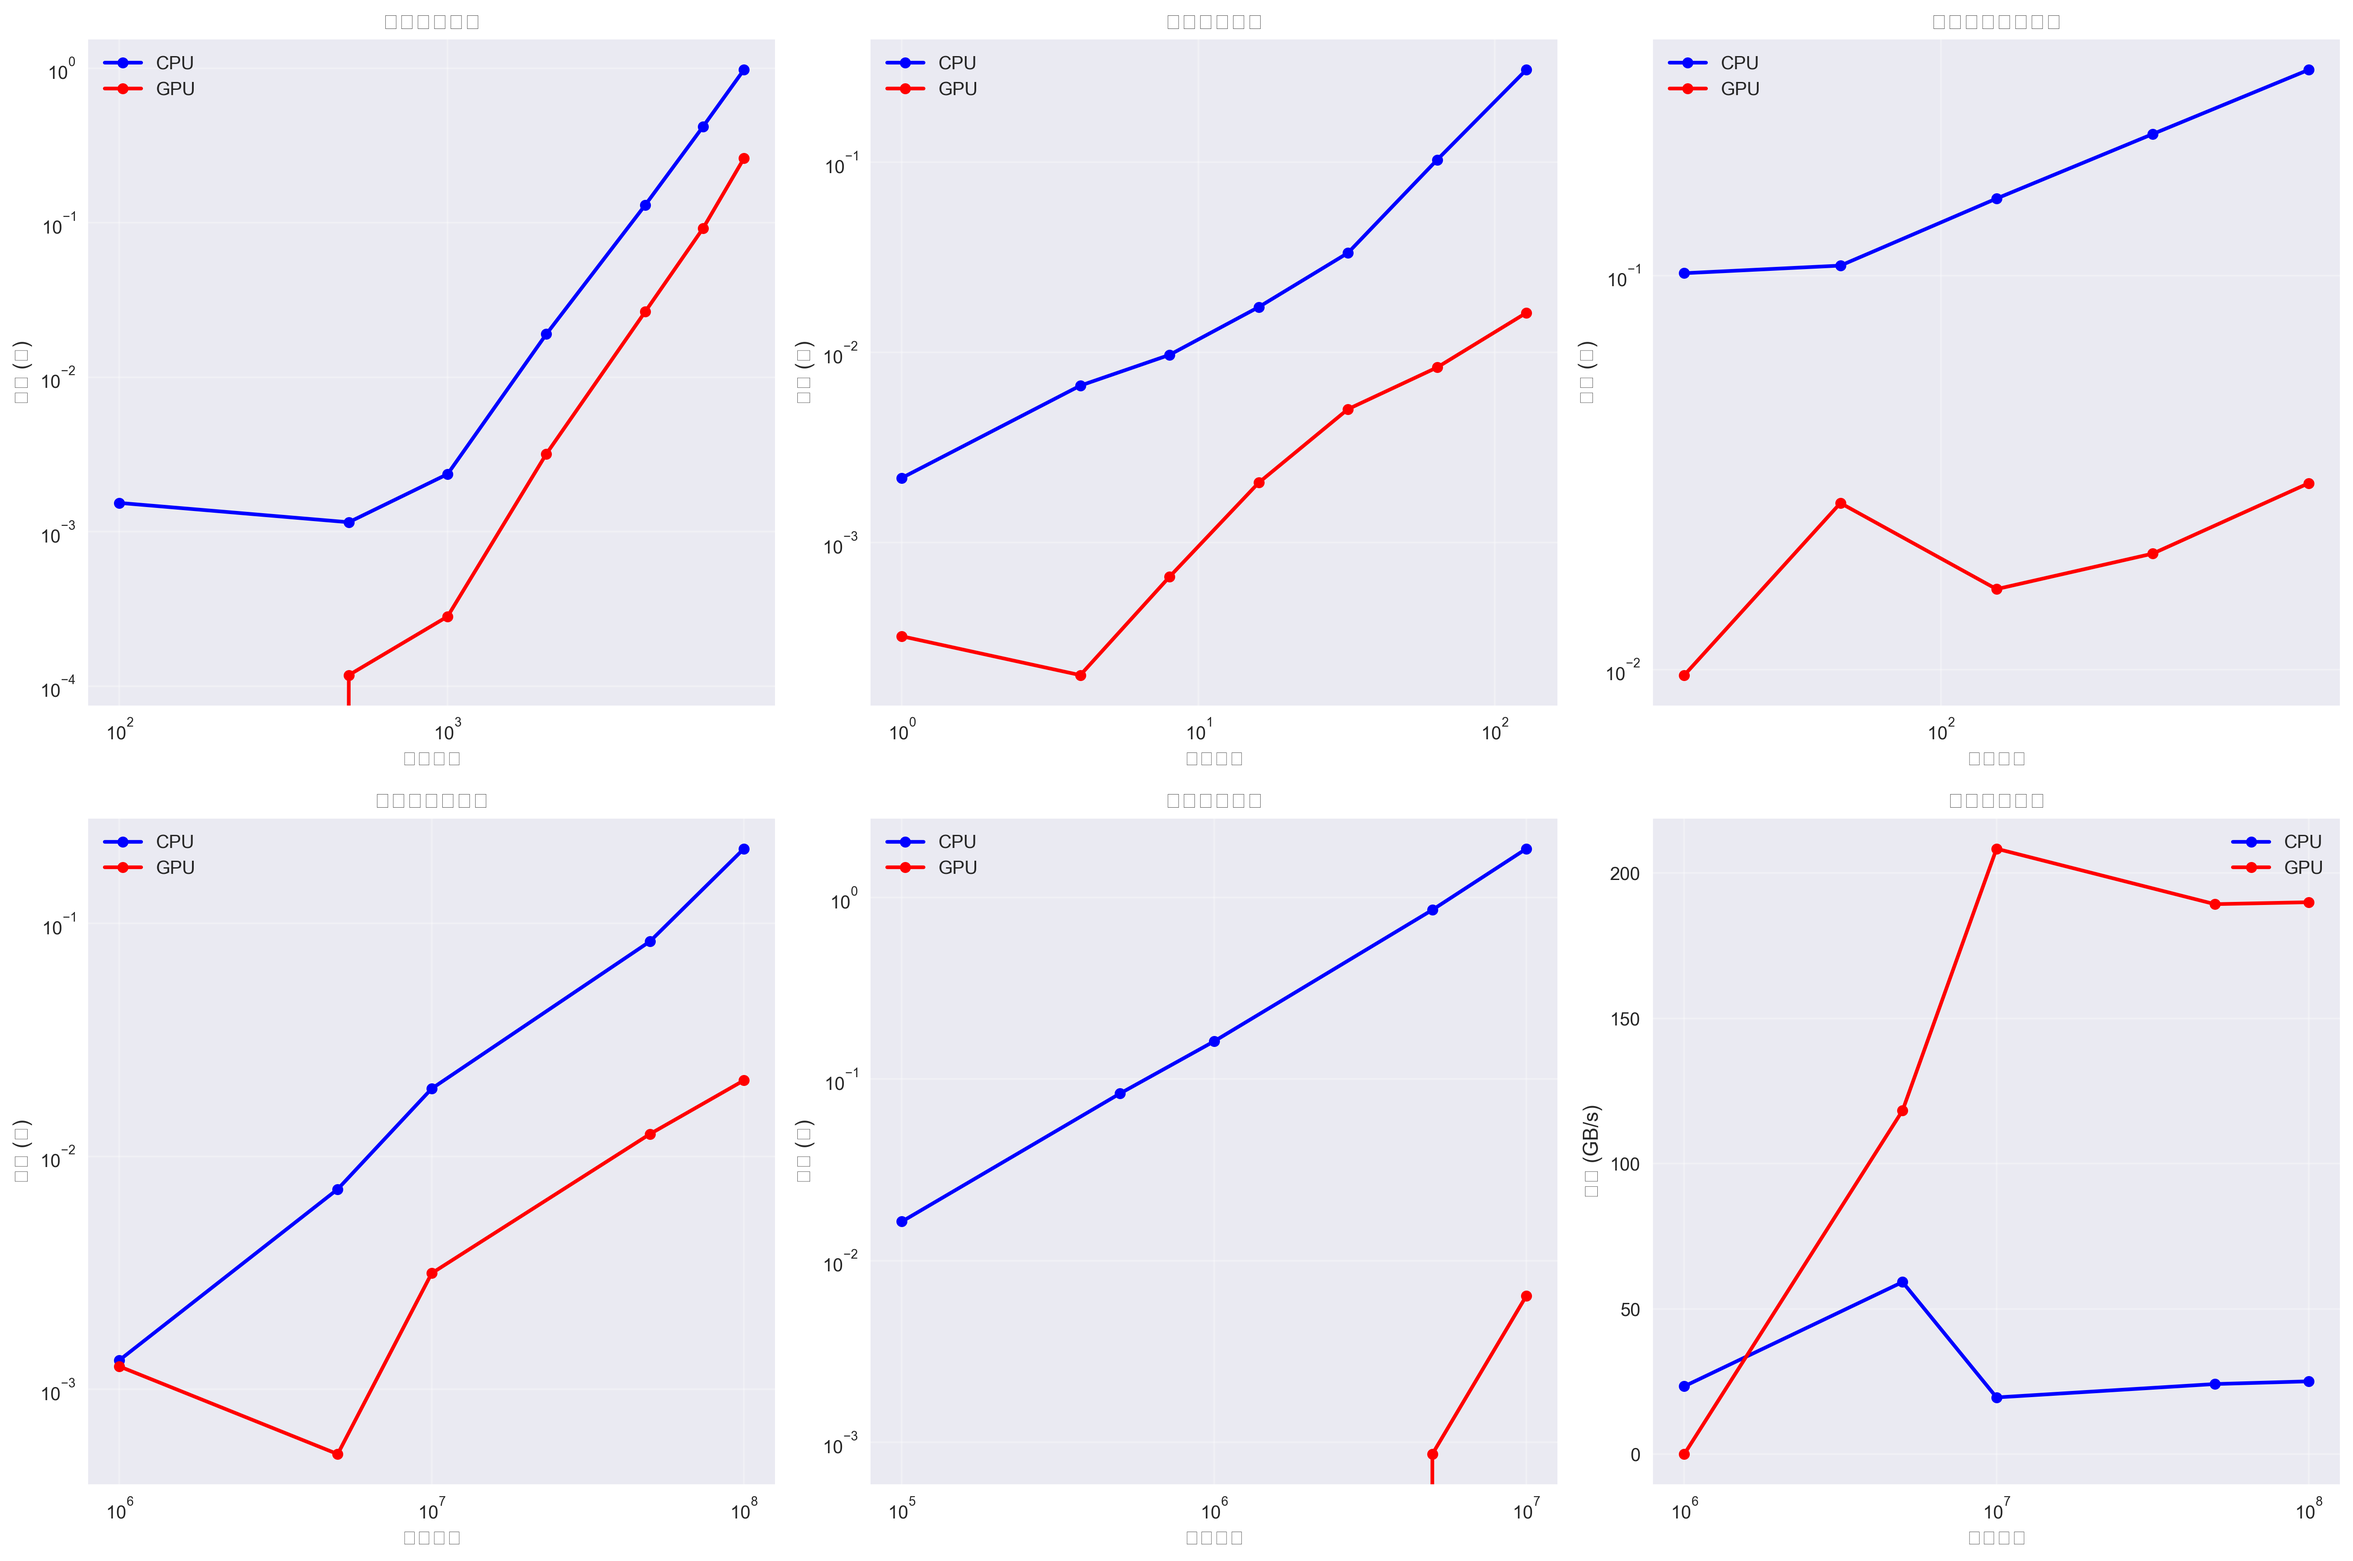
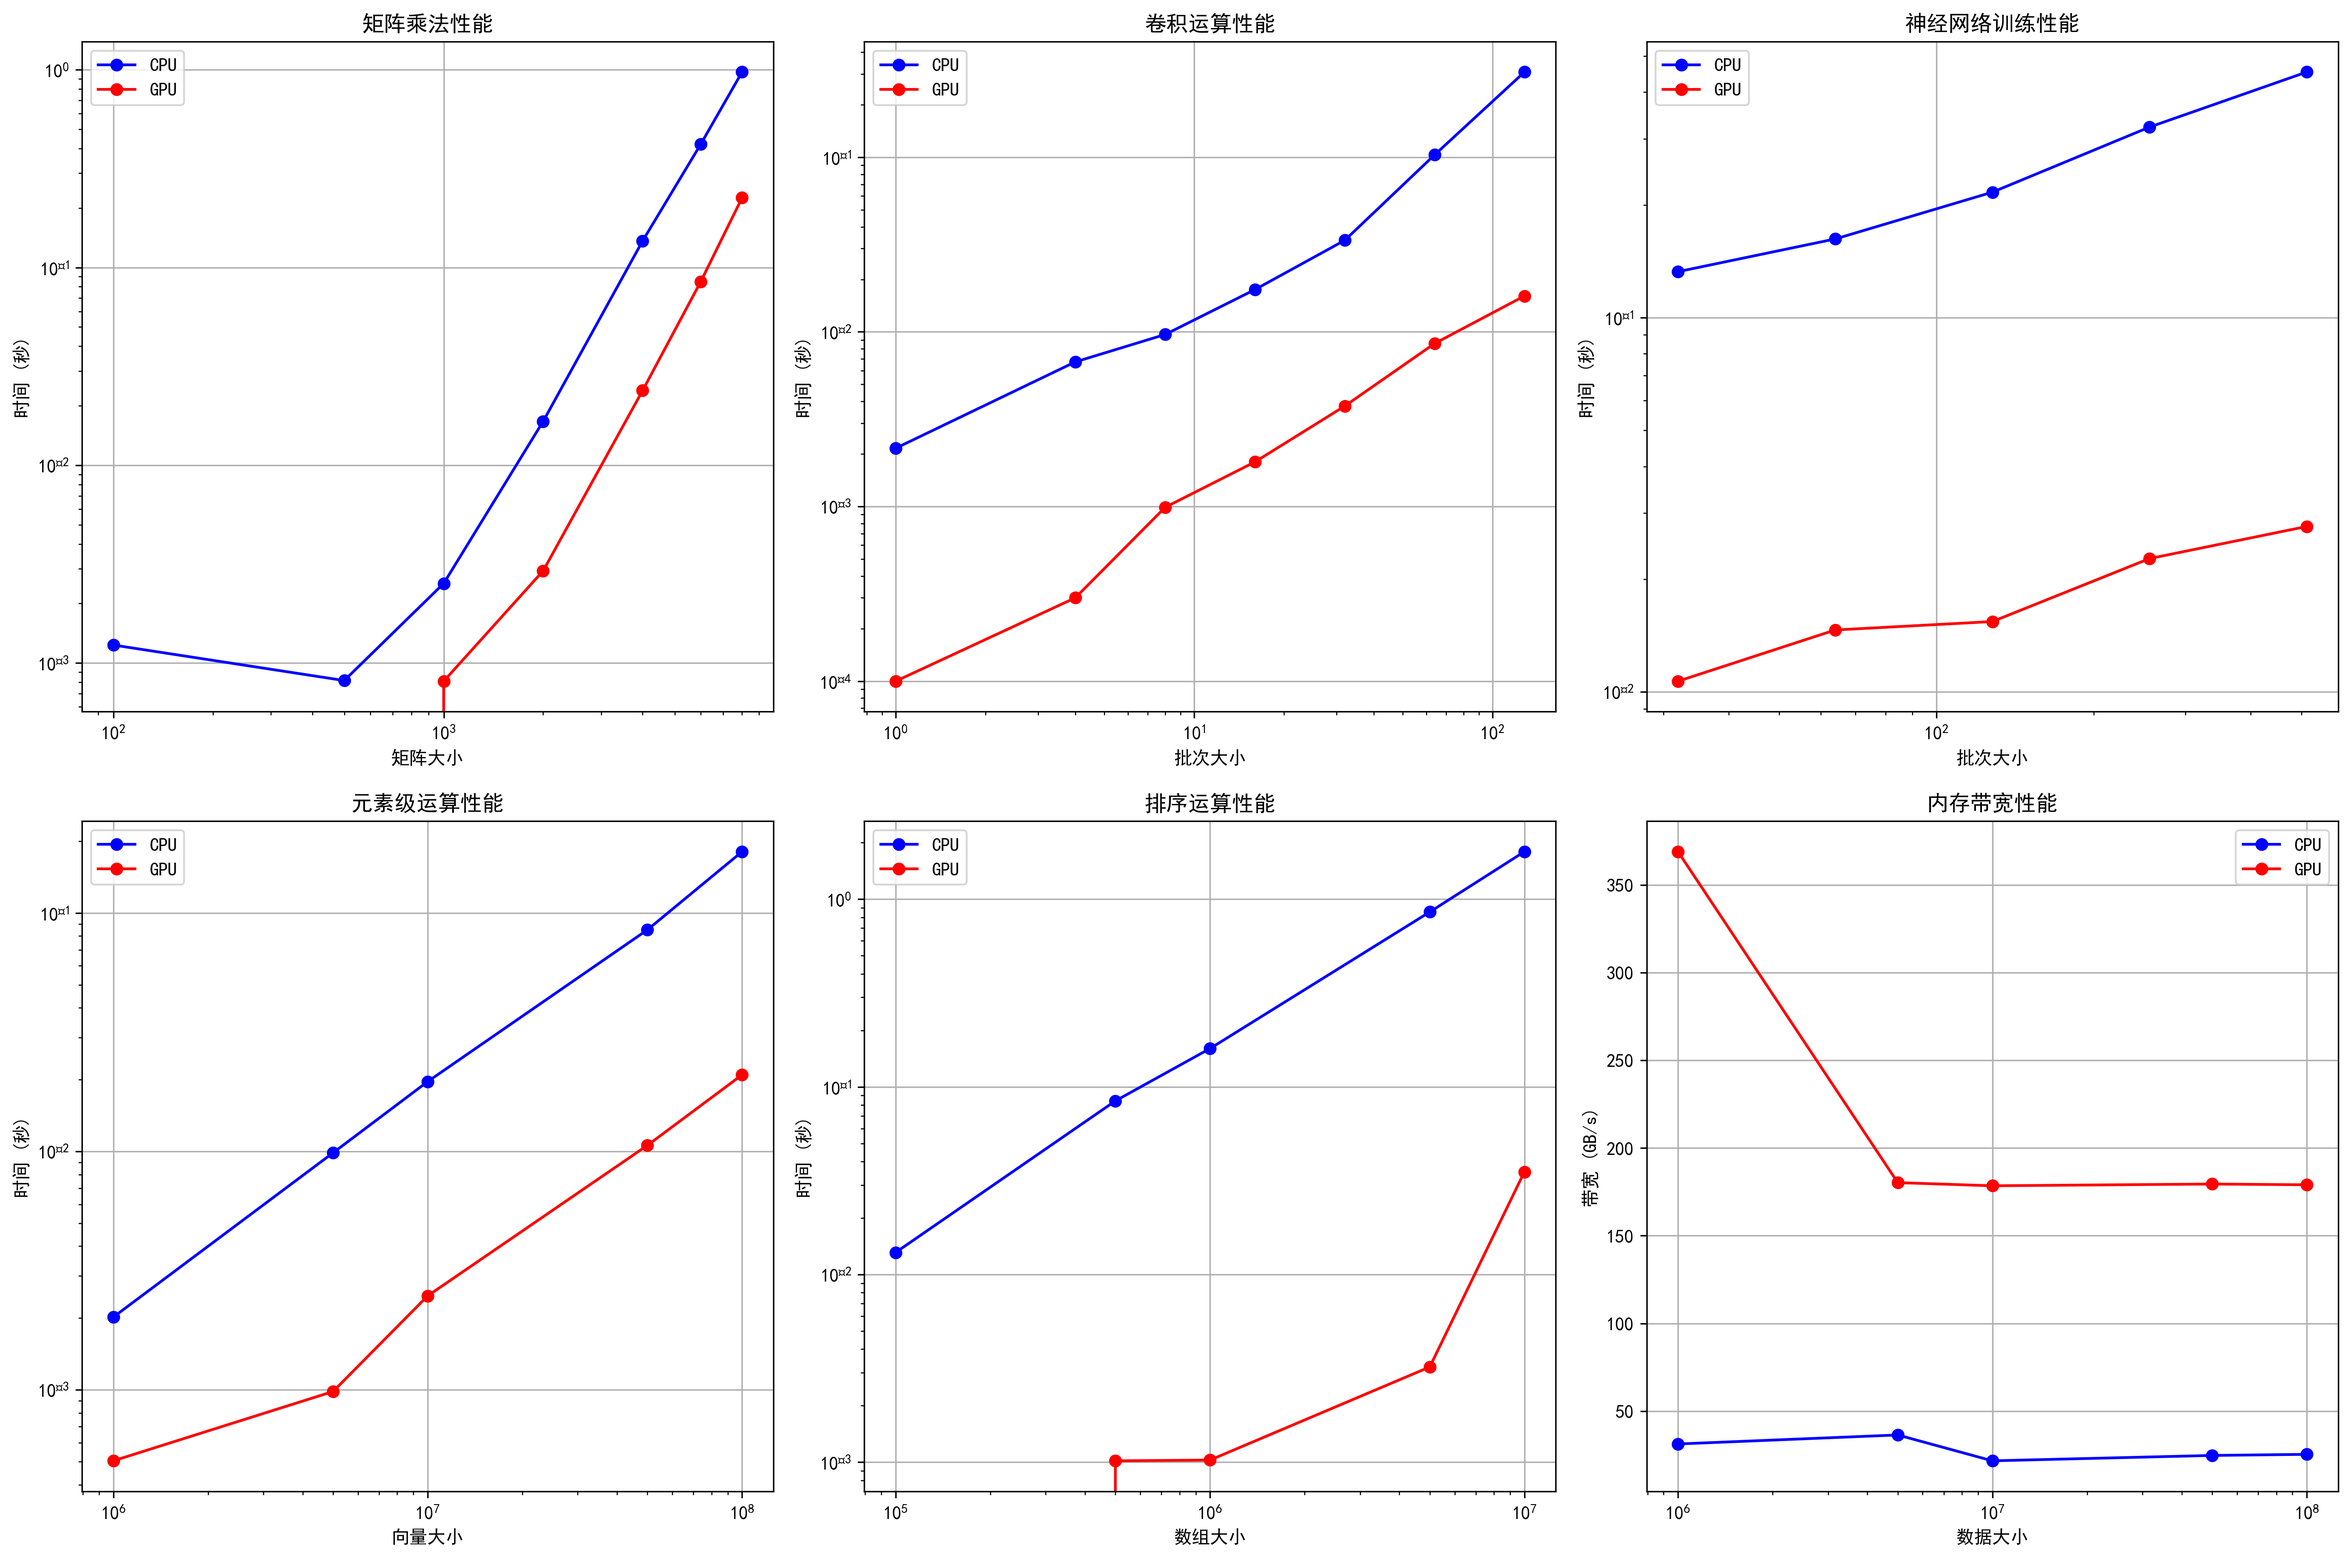
修复中文字体显示和除0问题 - 修复GPU性能基准测试脚本的中文字体显示问题 - 移除seaborn样式，使用与tensor_operations.py相同的绘图方式 - 修复tensor_operations.py中的除0错误 - 添加负号显示设置 - 更新性能测试图表

diff --git a/scripts/gpu_performance_benchmark.py b/scripts/gpu_performance_benchmark.py
@@ -11,7 +11,49 @@ import matplotlib.pyplot as plt
 import seaborn as sns
 from torch.utils.data import DataLoader, TensorDataset
 import warnings
+import matplotlib.font_manager as fm
+import platform
 warnings.filterwarnings('ignore')
+
+# 设置中文字体
+def setup_chinese_font():
+    """设置中文字体支持"""
+    system = platform.system()
+    
+    if system == "Windows":
+        # Windows系统字体
+        font_list = ['SimHei', 'Microsoft YaHei', 'SimSun', 'KaiTi']
+    elif system == "Darwin":  # macOS
+        font_list = ['PingFang SC', 'Hiragino Sans GB', 'STHeiti']
+    else:  # Linux
+        font_list = ['WenQuanYi Micro Hei', 'Noto Sans CJK SC', 'DejaVu Sans']
+    
+    # 尝试设置字体
+    font_found = False
+    for font_name in font_list:
+        try:
+            plt.rcParams['font.sans-serif'] = [font_name]
+            plt.rcParams['axes.unicode_minus'] = False
+            # 测试字体是否可用
+            test_fig, test_ax = plt.subplots()
+            test_ax.text(0.5, 0.5, '测试', fontsize=12)
+            plt.close(test_fig)
+            font_found = True
+            print(f"✓ 成功设置中文字体: {font_name}")
+            break
+        except:
+            continue
+    
+    if not font_found:
+        print("⚠ 未找到合适的中文字体，图表中的中文可能无法正确显示")
+        # 使用默认字体，但禁用中文
+        plt.rcParams['font.sans-serif'] = ['DejaVu Sans']
+        plt.rcParams['axes.unicode_minus'] = False
+    
+    # 设置负号显示
+    plt.rcParams['axes.unicode_minus'] = False
+# 初始化中文字体
+setup_chinese_font()
 
 def print_system_info():
     """打印系统信息"""
@@ -430,11 +472,11 @@ def benchmark_memory_bandwidth():
 
 def plot_results(matrix_results, conv_results, nn_results, element_results, sort_results, bandwidth_results):
     """绘制结果图表"""
-    try:
-        plt.style.use('seaborn-v0_8')
-    except:
-        plt.style.use('default')
-    fig, axes = plt.subplots(2, 3, figsize=(18, 12))
+    # 重新设置中文字体，确保在绘图时生效
+    setup_chinese_font()
+    
+    # 使用与tensor_operations.py相同的绘图方式
+    plt.figure(figsize=(18, 12))
     
     # 处理无限大值，用于绘图
     def filter_infinite_speedups(speedups):
@@ -442,80 +484,80 @@ def plot_results(matrix_results, conv_results, nn_results, element_results, sort
     
     # 矩阵运算结果
     if matrix_results['size']:
-        ax = axes[0, 0]
-        ax.plot(matrix_results['size'], matrix_results['cpu_time'], 'b-o', label='CPU', linewidth=2, markersize=6)
-        ax.plot(matrix_results['size'], matrix_results['gpu_time'], 'r-o', label='GPU', linewidth=2, markersize=6)
-        ax.set_xlabel('矩阵大小')
-        ax.set_ylabel('时间 (秒)')
-        ax.set_title('矩阵乘法性能')
-        ax.legend()
-        ax.grid(True, alpha=0.3)
-        ax.set_xscale('log')
-        ax.set_yscale('log')
+        plt.subplot(2, 3, 1)
+        plt.plot(matrix_results['size'], matrix_results['cpu_time'], 'b-o', label='CPU')
+        plt.plot(matrix_results['size'], matrix_results['gpu_time'], 'r-o', label='GPU')
+        plt.xlabel('矩阵大小')
+        plt.ylabel('时间 (秒)')
+        plt.title('矩阵乘法性能')
+        plt.legend()
+        plt.grid(True)
+        plt.xscale('log')
+        plt.yscale('log')
     
     # 卷积运算结果
     if conv_results['batch_size']:
-        ax = axes[0, 1]
-        ax.plot(conv_results['batch_size'], conv_results['cpu_time'], 'b-o', label='CPU', linewidth=2, markersize=6)
-        ax.plot(conv_results['batch_size'], conv_results['gpu_time'], 'r-o', label='GPU', linewidth=2, markersize=6)
-        ax.set_xlabel('批次大小')
-        ax.set_ylabel('时间 (秒)')
-        ax.set_title('卷积运算性能')
-        ax.legend()
-        ax.grid(True, alpha=0.3)
-        ax.set_xscale('log')
-        ax.set_yscale('log')
+        plt.subplot(2, 3, 2)
+        plt.plot(conv_results['batch_size'], conv_results['cpu_time'], 'b-o', label='CPU')
+        plt.plot(conv_results['batch_size'], conv_results['gpu_time'], 'r-o', label='GPU')
+        plt.xlabel('批次大小')
+        plt.ylabel('时间 (秒)')
+        plt.title('卷积运算性能')
+        plt.legend()
+        plt.grid(True)
+        plt.xscale('log')
+        plt.yscale('log')
     
     # 神经网络训练结果
     if nn_results['batch_size']:
-        ax = axes[0, 2]
-        ax.plot(nn_results['batch_size'], nn_results['cpu_time'], 'b-o', label='CPU', linewidth=2, markersize=6)
-        ax.plot(nn_results['batch_size'], nn_results['gpu_time'], 'r-o', label='GPU', linewidth=2, markersize=6)
-        ax.set_xlabel('批次大小')
-        ax.set_ylabel('时间 (秒)')
-        ax.set_title('神经网络训练性能')
-        ax.legend()
-        ax.grid(True, alpha=0.3)
-        ax.set_xscale('log')
-        ax.set_yscale('log')
+        plt.subplot(2, 3, 3)
+        plt.plot(nn_results['batch_size'], nn_results['cpu_time'], 'b-o', label='CPU')
+        plt.plot(nn_results['batch_size'], nn_results['gpu_time'], 'r-o', label='GPU')
+        plt.xlabel('批次大小')
+        plt.ylabel('时间 (秒)')
+        plt.title('神经网络训练性能')
+        plt.legend()
+        plt.grid(True)
+        plt.xscale('log')
+        plt.yscale('log')
     
     # 元素级运算结果
     if element_results['size']:
-        ax = axes[1, 0]
-        ax.plot(element_results['size'], element_results['cpu_time'], 'b-o', label='CPU', linewidth=2, markersize=6)
-        ax.plot(element_results['size'], element_results['gpu_time'], 'r-o', label='GPU', linewidth=2, markersize=6)
-        ax.set_xlabel('向量大小')
-        ax.set_ylabel('时间 (秒)')
-        ax.set_title('元素级运算性能')
-        ax.legend()
-        ax.grid(True, alpha=0.3)
-        ax.set_xscale('log')
-        ax.set_yscale('log')
+        plt.subplot(2, 3, 4)
+        plt.plot(element_results['size'], element_results['cpu_time'], 'b-o', label='CPU')
+        plt.plot(element_results['size'], element_results['gpu_time'], 'r-o', label='GPU')
+        plt.xlabel('向量大小')
+        plt.ylabel('时间 (秒)')
+        plt.title('元素级运算性能')
+        plt.legend()
+        plt.grid(True)
+        plt.xscale('log')
+        plt.yscale('log')
     
     # 排序运算结果
     if sort_results['size']:
-        ax = axes[1, 1]
-        ax.plot(sort_results['size'], sort_results['cpu_time'], 'b-o', label='CPU', linewidth=2, markersize=6)
-        ax.plot(sort_results['size'], sort_results['gpu_time'], 'r-o', label='GPU', linewidth=2, markersize=6)
-        ax.set_xlabel('数组大小')
-        ax.set_ylabel('时间 (秒)')
-        ax.set_title('排序运算性能')
-        ax.legend()
-        ax.grid(True, alpha=0.3)
-        ax.set_xscale('log')
-        ax.set_yscale('log')
+        plt.subplot(2, 3, 5)
+        plt.plot(sort_results['size'], sort_results['cpu_time'], 'b-o', label='CPU')
+        plt.plot(sort_results['size'], sort_results['gpu_time'], 'r-o', label='GPU')
+        plt.xlabel('数组大小')
+        plt.ylabel('时间 (秒)')
+        plt.title('排序运算性能')
+        plt.legend()
+        plt.grid(True)
+        plt.xscale('log')
+        plt.yscale('log')
     
     # 内存带宽结果
     if bandwidth_results and bandwidth_results['size']:
-        ax = axes[1, 2]
-        ax.plot(bandwidth_results['size'], bandwidth_results['cpu_bandwidth'], 'b-o', label='CPU', linewidth=2, markersize=6)
-        ax.plot(bandwidth_results['size'], bandwidth_results['gpu_bandwidth'], 'r-o', label='GPU', linewidth=2, markersize=6)
-        ax.set_xlabel('数据大小')
-        ax.set_ylabel('带宽 (GB/s)')
-        ax.set_title('内存带宽性能')
-        ax.legend()
-        ax.grid(True, alpha=0.3)
-        ax.set_xscale('log')
+        plt.subplot(2, 3, 6)
+        plt.plot(bandwidth_results['size'], bandwidth_results['cpu_bandwidth'], 'b-o', label='CPU')
+        plt.plot(bandwidth_results['size'], bandwidth_results['gpu_bandwidth'], 'r-o', label='GPU')
+        plt.xlabel('数据大小')
+        plt.ylabel('带宽 (GB/s)')
+        plt.title('内存带宽性能')
+        plt.legend()
+        plt.grid(True)
+        plt.xscale('log')
     
     plt.tight_layout()
     plt.savefig('gpu_performance_benchmark.png', dpi=300, bbox_inches='tight')

diff --git a/src/basic/tensor_operations.py b/src/basic/tensor_operations.py
@@ -8,6 +8,46 @@ import torch
 import numpy as np
 import time
 import matplotlib.pyplot as plt
+import matplotlib.font_manager as fm
+import platform
+
+# 设置中文字体
+def setup_chinese_font():
+    """设置中文字体支持"""
+    system = platform.system()
+    
+    if system == "Windows":
+        # Windows系统字体
+        font_list = ['SimHei', 'Microsoft YaHei', 'SimSun', 'KaiTi']
+    elif system == "Darwin":  # macOS
+        font_list = ['PingFang SC', 'Hiragino Sans GB', 'STHeiti']
+    else:  # Linux
+        font_list = ['WenQuanYi Micro Hei', 'Noto Sans CJK SC', 'DejaVu Sans']
+    
+    # 尝试设置字体
+    font_found = False
+    for font_name in font_list:
+        try:
+            plt.rcParams['font.sans-serif'] = [font_name]
+            plt.rcParams['axes.unicode_minus'] = False
+            # 测试字体是否可用
+            test_fig, test_ax = plt.subplots()
+            test_ax.text(0.5, 0.5, '测试', fontsize=12)
+            plt.close(test_fig)
+            font_found = True
+            print(f"✓ 成功设置中文字体: {font_name}")
+            break
+        except:
+            continue
+    
+    if not font_found:
+        print("⚠ 未找到合适的中文字体，图表中的中文可能无法正确显示")
+        # 使用默认字体，但禁用中文
+        plt.rcParams['font.sans-serif'] = ['DejaVu Sans']
+        plt.rcParams['axes.unicode_minus'] = False
+
+# 初始化中文字体
+setup_chinese_font()
 
 def print_device_info():
     """打印设备信息"""
@@ -99,8 +139,13 @@ def matrix_operations_benchmark():
         print(f"  CPU时间: {cpu_time:.4f} 秒")
         
         if torch.cuda.is_available():
-            speedup = cpu_time / gpu_time
-            print(f"  加速比: {speedup:.2f}x")
+            # 避免除零错误
+            if gpu_time > 0:
+                speedup = cpu_time / gpu_time
+                print(f"  加速比: {speedup:.2f}x")
+            else:
+                speedup = float('inf')
+                print(f"  加速比: 无限大 (GPU时间过短)")
         print()
     
     # 绘制性能对比图
@@ -116,7 +161,13 @@ def matrix_operations_benchmark():
         plt.grid(True)
         
         plt.subplot(1, 2, 2)
-        speedups = [cpu/gpu for cpu, gpu in zip(cpu_times, gpu_times)]
+        # 避免除零错误
+        speedups = []
+        for cpu, gpu in zip(cpu_times, gpu_times):
+            if gpu > 0:
+                speedups.append(cpu/gpu)
+            else:
+                speedups.append(1000)  # 将无限大替换为1000用于绘图
         plt.plot(sizes, speedups, 'g-o')
         plt.xlabel('矩阵大小')
         plt.ylabel('加速比')
